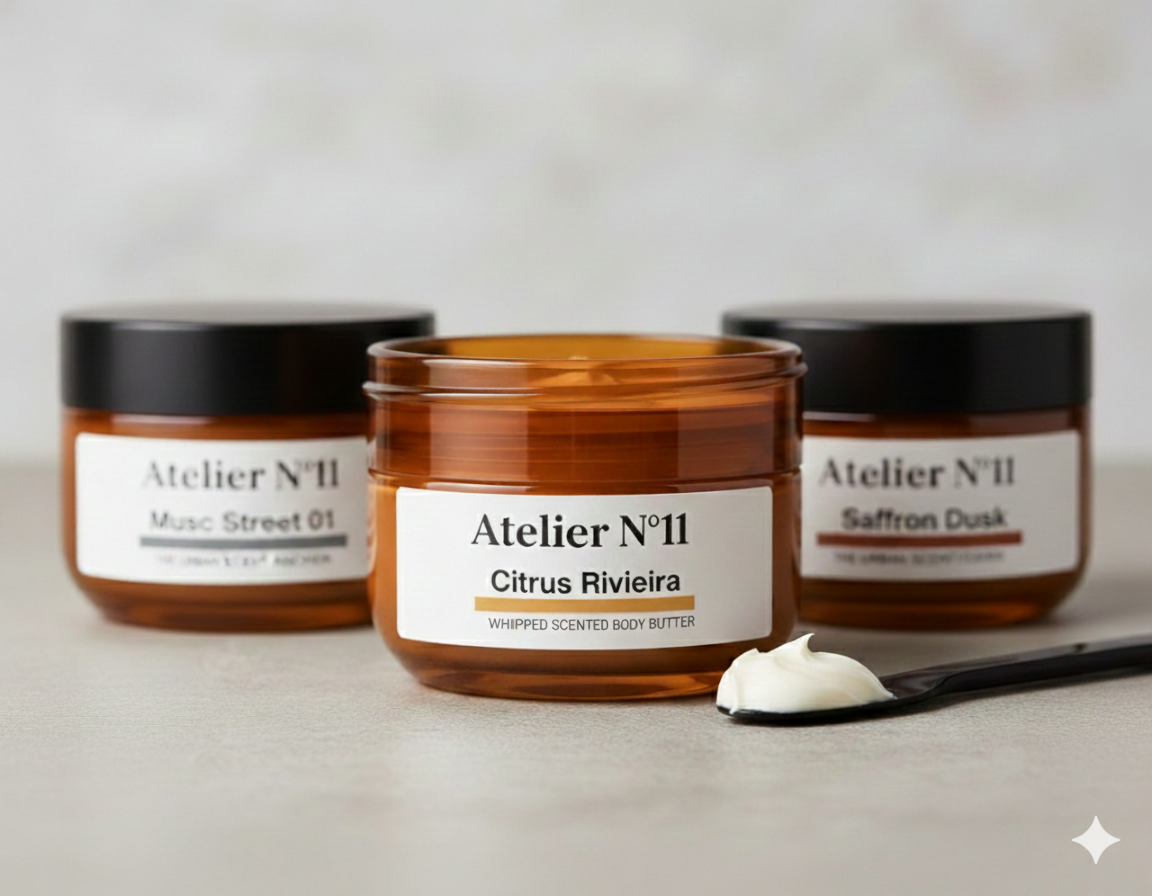
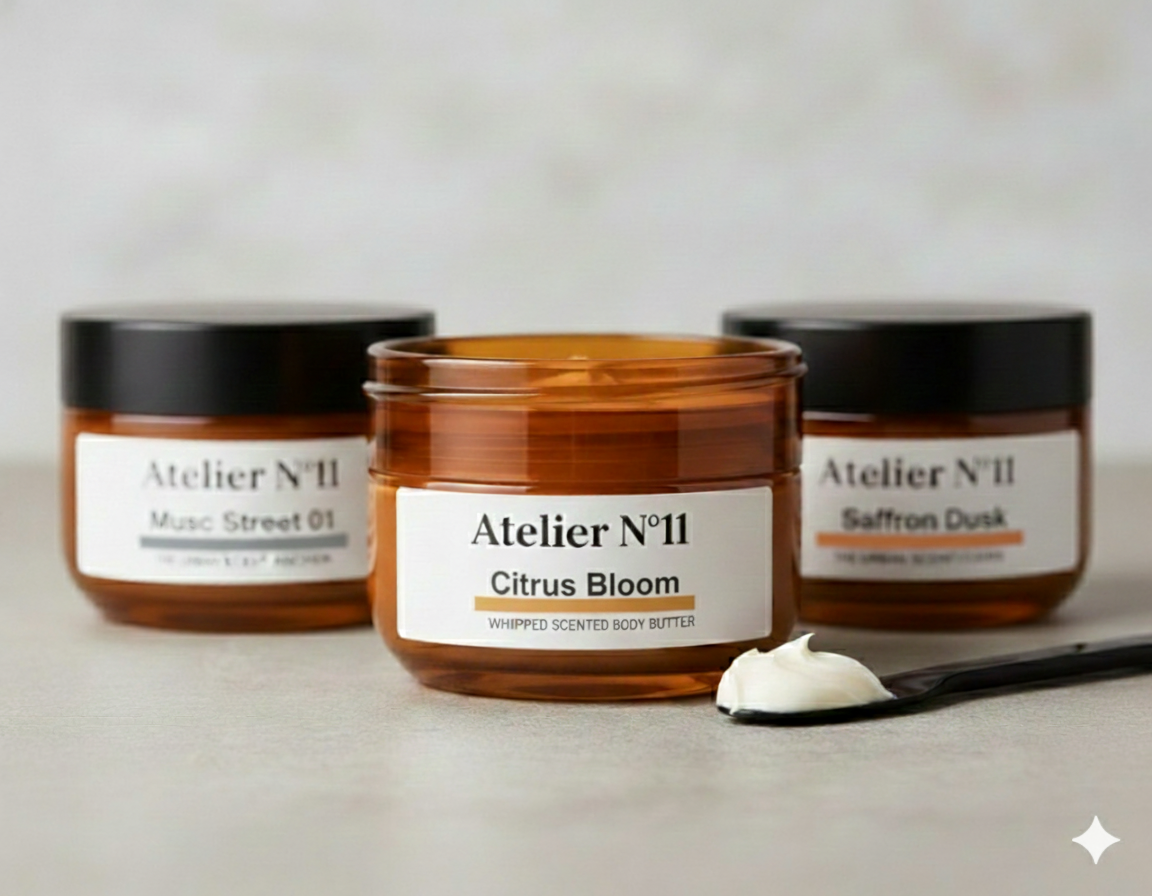
updated images

Changed region(s): [[0.4375, 0.625, 0.5938, 0.6875], [0.6875, 0.5938, 0.9062, 0.625], [0.25, 0.5938, 0.3125, 0.625]]

diff --git a/index.html b/index.html
@@ -82,13 +82,13 @@
                     </div>
                 </div>
 
-                <!-- Product 2: Citrus Riviera --><div class="bg-white rounded-lg shadow-xl overflow-hidden hover:shadow-2xl transition duration-300">
-                    <!-- Placeholder remains Orange for Citrus Riviera --><img src="images/citrus-riviera.png" 
-                         alt="Product Citrus Riviera body butter" 
+                <!-- Product 2: Citrus Bloom --><div class="bg-white rounded-lg shadow-xl overflow-hidden hover:shadow-2xl transition duration-300">
+                    <!-- Placeholder remains Orange for Citrus Bloom --><img src="images/citrus-bloom.png" 
+                         alt="Product Citrus Bloom body butter" 
                          class="w-full h-auto object-cover border-b border-gray-100"
-                         onerror="this.onerror=null;this.src='images/citrus-riviera.png';">
+                         onerror="this.onerror=null;this.src='images/citrus-bloom.png';">
                     <div class="p-6 text-center">
-                        <h3 class="text-2xl font-bold wordmark mb-2">Citrus Riviera</h3>
+                        <h3 class="text-2xl font-bold wordmark mb-2">Citrus Bloom</h3>
                         <p class="text-sm text-gray-600 mb-4">The Bright, Mediterranean Primer</p>
                         <p class="text-base text-gray-800 mb-6">The essential fragrance primer. This nourishing base of **Shea Butter, Jojoba Oil, and Sweet Almond Oil** locks in moisture, ensuring your bright, exhilarating citrus scent layers beautifully and lasts all day.</p>
                         <a href="#" class="inline-block px-6 py-2 text-sm uppercase tracking-widest text-white bg-gray-900 rounded-full hover:bg-gray-700 transition duration-300">
